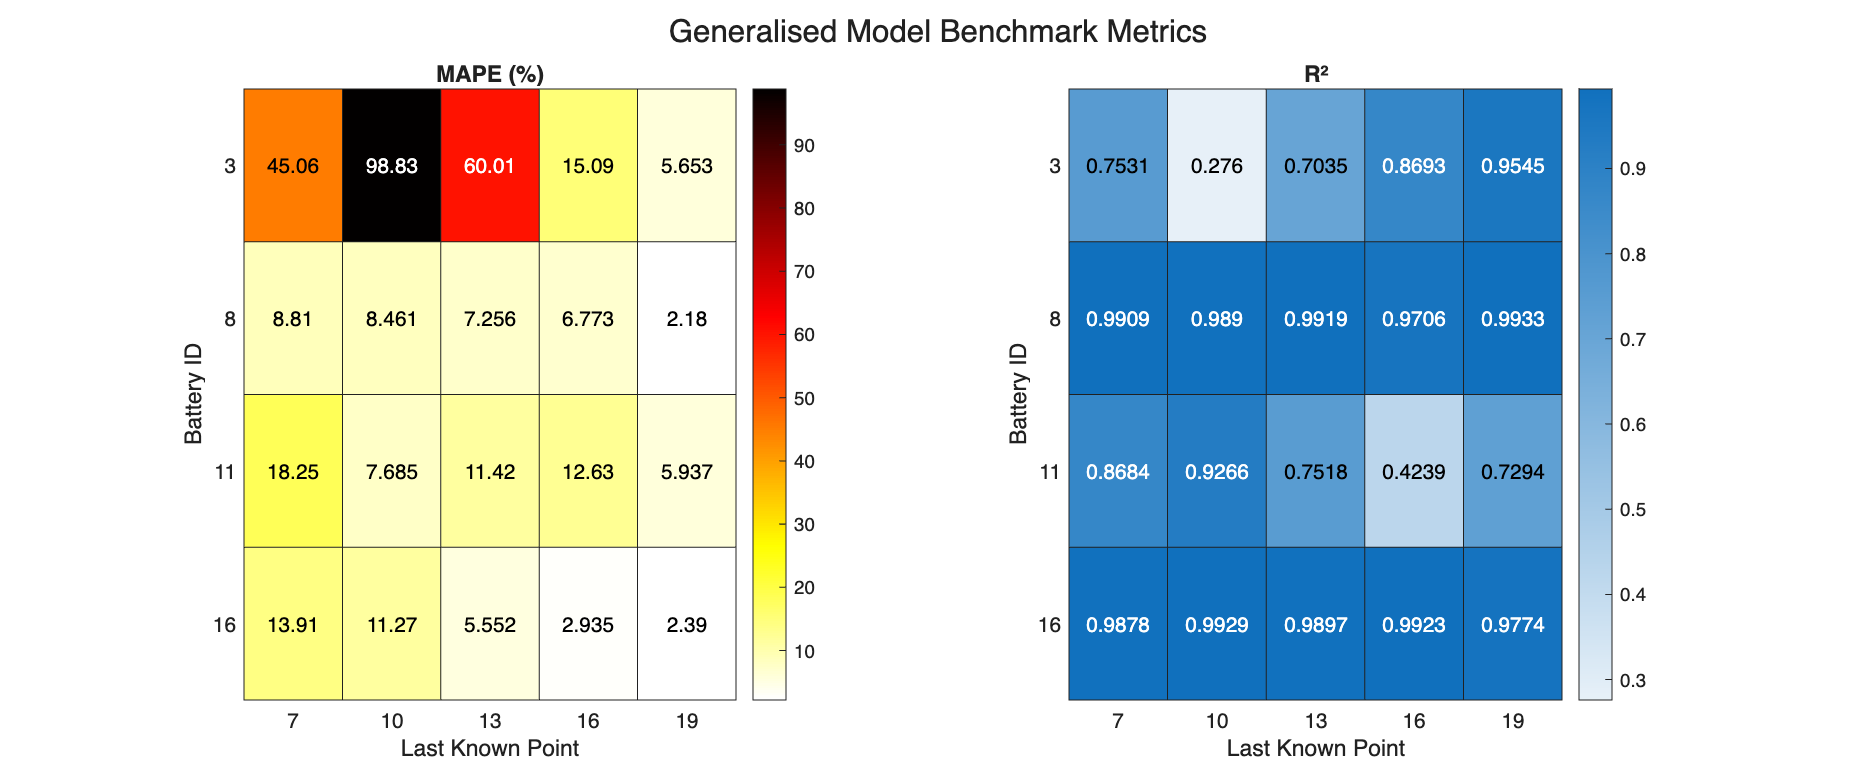
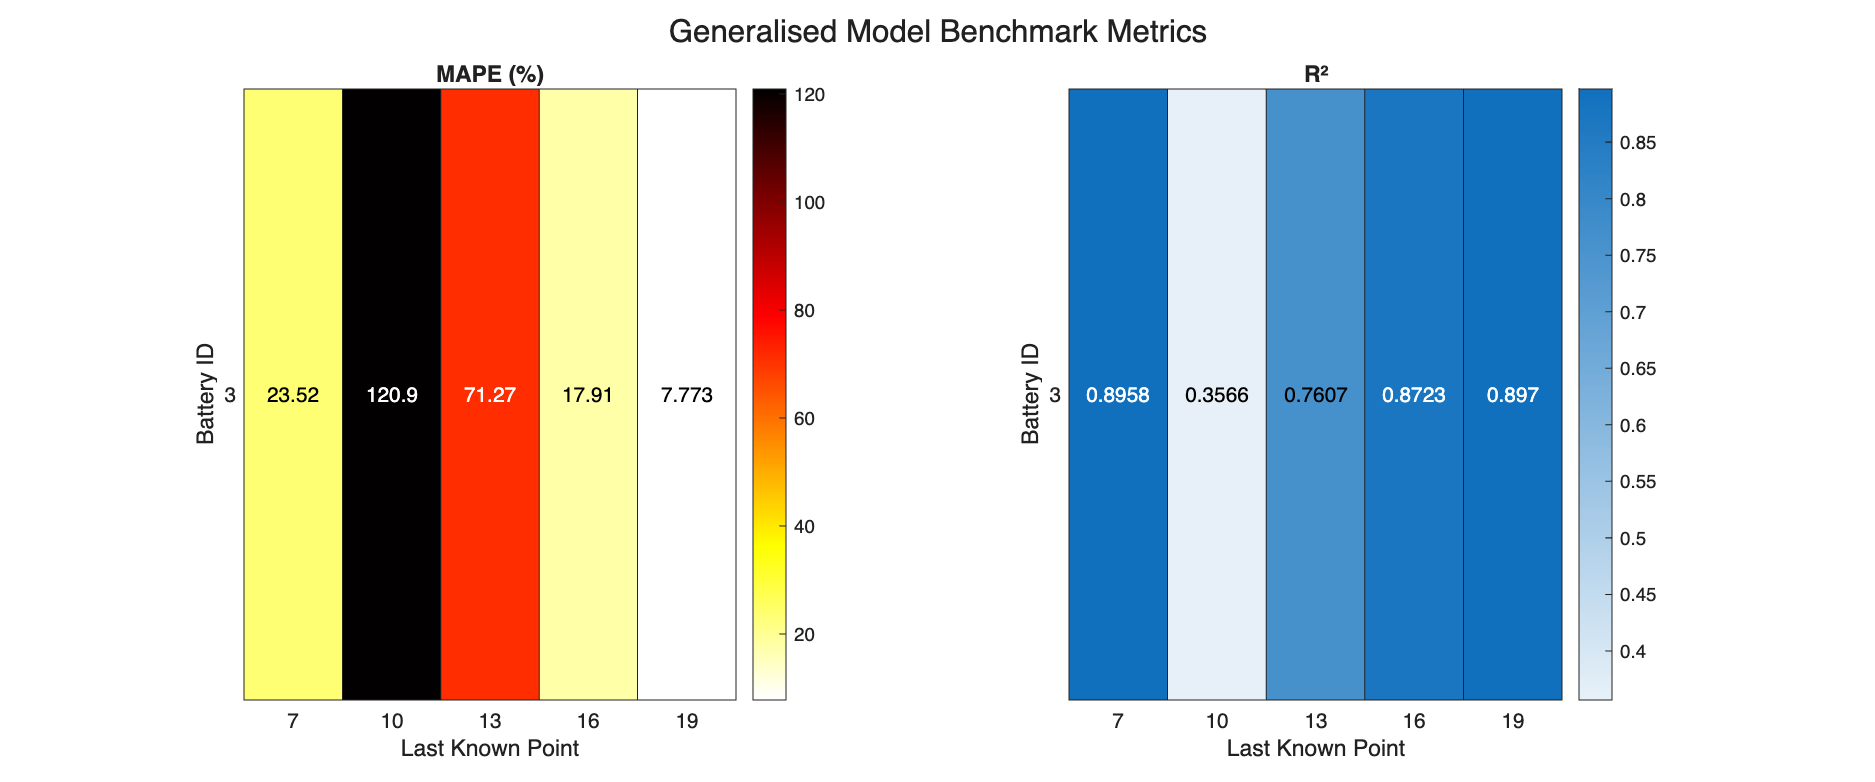
testing battery 3 only

diff --git a/single_model.m b/single_model.m
@@ -7,7 +7,7 @@ close all;
 
 % ====== CONFIGURATION ======
 % Select which batteries to hold out for testing
-test_battery_indices = [3,8,11,16];%[2, 9, 16];  % Example: test on batteries 2, 9, 16
+test_battery_indices = [3];%[3,8,11,16];%[2, 9, 16];  % Example: test on batteries 2, 9, 16
 
 % Target features to use
 target_Feature = [1:7, 12:21];
@@ -44,6 +44,9 @@ for idx = indices_to_remove
         Train_data(idx) = [];
     end
 end
+
+% remove first battery
+Train_data(1) = [];
 
 num_train_batteries = length(Train_data);
 fprintf('Training on %d batteries (including bootstrapped copies)\n', num_train_batteries);
